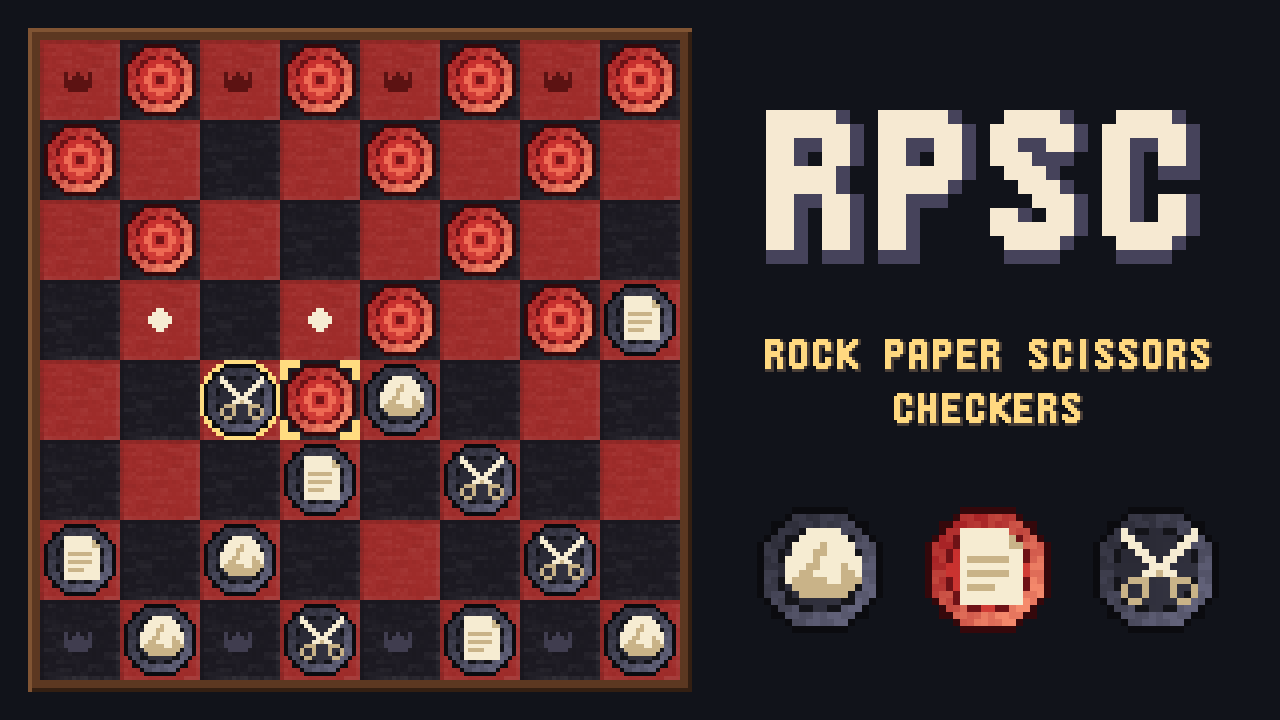
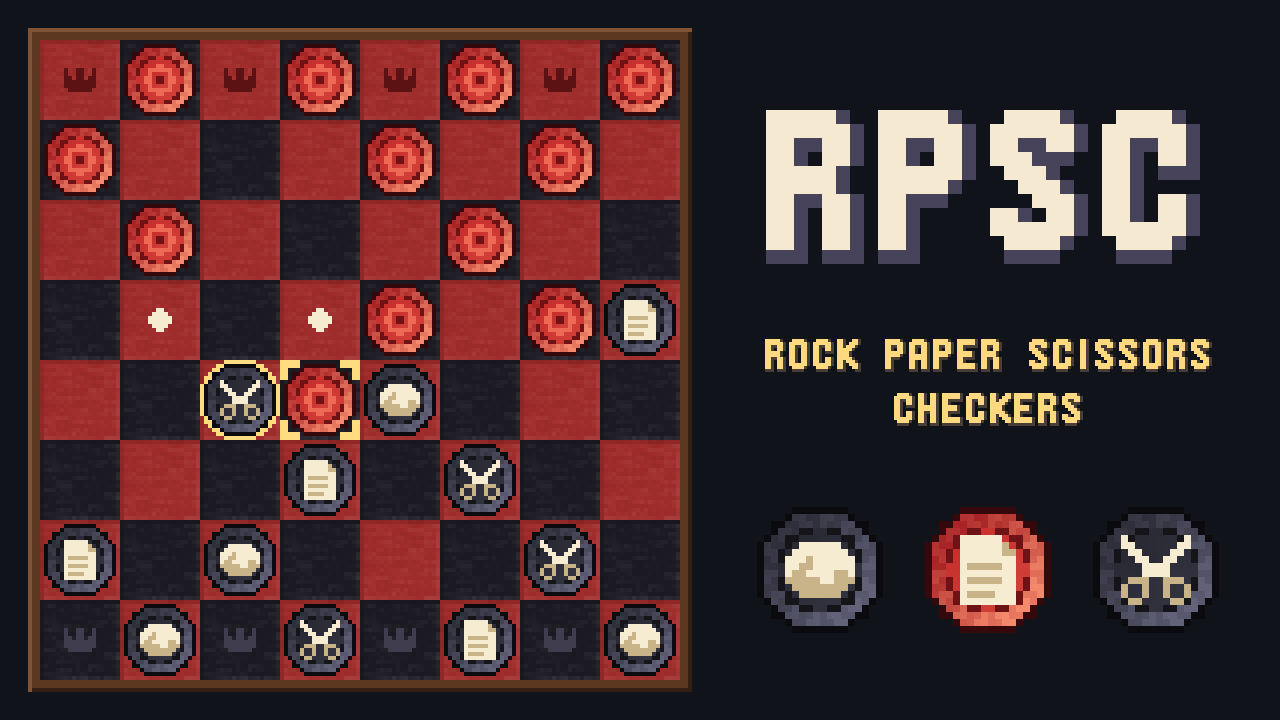
RPSC: centre the emblems and button labels, and take a move while the room confirms the last one

diff --git a/games/rpsc/src/Render/Scene.php b/games/rpsc/src/Render/Scene.php
@@ -63,6 +63,11 @@ final class Scene
 	private array $tiles = [];
 	/** @var array<string,array<string,mixed>> Text layouts by content, scale, and colour. */
 	private array $cache = [];
+	/**
+	 * @var array<string,array{int,int,int,int,int}> Where each font glyph's ink falls in its cell, and its advance:
+	 * left, top, right, bottom (all inclusive), advance.
+	 */
+	private array $ink = [];
 
 	/**
 	 * Prepare the sprite, text, rectangle, and menu renderers.
@@ -90,6 +95,9 @@ final class Scene
 		// The generator names every tile in the tileset, so this class never hard-codes a position on the sheet.
 		foreach($map->tilesets as $set) foreach($set['properties'] ?? [] as $entry)
 		{
+			// The generator also measures the font, because a label is centred by its ink, not by its cells.
+			if($entry['name'] === 'rpsc.ink') $this->ink = json_decode((string)$entry['value'], true, 4, JSON_THROW_ON_ERROR);
+
 			if($entry['name'] !== 'rpsc.tiles') continue;
 
 			foreach(explode(',', (string)$entry['value']) as $index => $name) $this->tiles[$name] = (int)$set['firstgid'] + $index;
@@ -286,7 +294,11 @@ final class Scene
 			// The wrapped status is centred in the gap between the two rows.
 			foreach($set['count'] > 0 ? array_slice($labels, -$set['count']) : [] as $sprite) $sprite->y += floor($middle - $set['height'] / 2);
 		}
-		elseif($status !== '') $this->label($labels, $status, $left + $size / 2, $bottom + $gap, $t, 'center', $statusColour);
+		elseif($status !== '')
+		{
+			[$inkLeft, , $inkWidth] = $this->inkBox($status);
+			$this->label($labels, $status, $left + ($size - $inkWidth * $t) / 2 - $inkLeft * $t, $bottom + $gap, $t, 'left', $statusColour);
+		}
 
 		// Buttons sit at the right of the player's lowest line, beside the lost pieces on a tall frame.
 		$buttonY = $wide ? $bottom - $buttonHeight : $bottom + 3 * $gap + 2 * $line;
@@ -294,12 +306,16 @@ final class Scene
 
 		foreach(array_reverse($buttons) as $button)
 		{
-			$buttonWidth = (int)ceil($this->measure($button['label']) * $t) + 6 * $k;
+			// The label is centred by its ink: the same margin left and right of the strokes, and above and below.
+			[$inkLeft, $inkTop, $inkWidth, $inkHeight] = $this->inkBox($button['label']);
+			$buttonWidth = (int)ceil($inkWidth * $t) + 6 * $k;
 			$x -= $buttonWidth;
 			$enabled = $button['enabled'] ?? true;
+			$textX = $x + ($buttonWidth - $inkWidth * $t) / 2 - $inkLeft * $t;
+			$textY = $buttonY + ($buttonHeight - $inkHeight * $t) / 2 - $inkTop * $t;
 			$rects[] = [$x, $buttonY, $buttonWidth, $buttonHeight, ...self::BUTTON_EDGE, $enabled ? 1 : .4];
 			$rects[] = [$x + $k, $buttonY + $k, $buttonWidth - 2 * $k, $buttonHeight - 2 * $k, ...self::BUTTON, 1];
-			$this->label($labels, $button['label'], $x + $buttonWidth / 2, $buttonY + ($buttonHeight - $line) / 2, $t, 'center', $enabled ? self::CREAM : self::DIM);
+			$this->label($labels, $button['label'], $textX, $textY, $t, 'left', $enabled ? self::CREAM : self::DIM);
 			$this->regions[] = ['id' => $button['id'], 'label' => $button['label'], 'rect' => [$x, $buttonY, $buttonWidth, $buttonHeight], 'disabled' => !$enabled];
 			$x -= 2 * $k;
 		}
@@ -358,6 +374,8 @@ final class Scene
 					, 'border' => 2 * $k, 'line' => 16 * $t, 'gap' => 2 * $k, 'mini' => $mini
 					, 'row' => 16 * $t + 2 * $k + self::TILE * $mini, 'button' => max(self::TILE * $mini, 16 * $t + 2 * $k)
 				];
+				// A button is as tall as its text plus an even number of pixels, so the text can sit exactly in the middle.
+				$measures['button'] += ($measures['button'] - (int)$this->inkBox('M')[3] * $t) % 2;
 				['size' => $size, 'border' => $border, 'line' => $line, 'gap' => $gap, 'row' => $row, 'button' => $button] = $measures;
 
 				if($mode === 'portrait')
@@ -510,6 +528,49 @@ final class Scene
 		}
 
 		return ['count' => count($this->cache[$key]['sprites']), 'height' => (float)$this->cache[$key]['height']];
+	}
+
+	/**
+	 * Find the box a line's ink covers at scale one.
+	 *
+	 * The font's cells are wider and taller than its strokes: capitals fill rows 1 to 11 of a 16-row line, and most
+	 * leave their last column empty. Centring a label by its cells would set it left of and above the middle.
+	 *
+	 * @param string $text One line of text.
+	 * @return array{float,float,float,float} Left and top of the ink from the line's origin, then its width and height.
+	 */
+	private function inkBox(string $text): array
+	{
+		$pen = 0;
+		$left = null;
+		$right = 0;
+		$top = INF;
+		$bottom = -INF;
+
+		// The font folds lower case onto its capitals.
+		foreach(str_split(strtoupper($text)) as $character)
+		{
+			$glyph = $this->ink[$character] ?? null;
+
+			// A character the table does not know is measured by the font, cell and all.
+			if($glyph === null) return [0.0, 0.0, $this->measure($text), 16.0];
+
+			[$inkLeft, $inkTop, $inkRight, $inkBottom, $advance] = $glyph;
+
+			if($inkRight >= $inkLeft)
+			{
+				$left ??= $pen + $inkLeft;
+				$right = $pen + $inkRight + 1;
+				$top = min($top, $inkTop);
+				$bottom = max($bottom, $inkBottom + 1);
+			}
+
+			$pen += $advance;
+		}
+
+		if($left === null) return [0.0, 0.0, (float)$pen, 16.0];
+
+		return [(float)$left, (float)$top, (float)($right - $left), (float)($bottom - $top)];
 	}
 
 	/**
